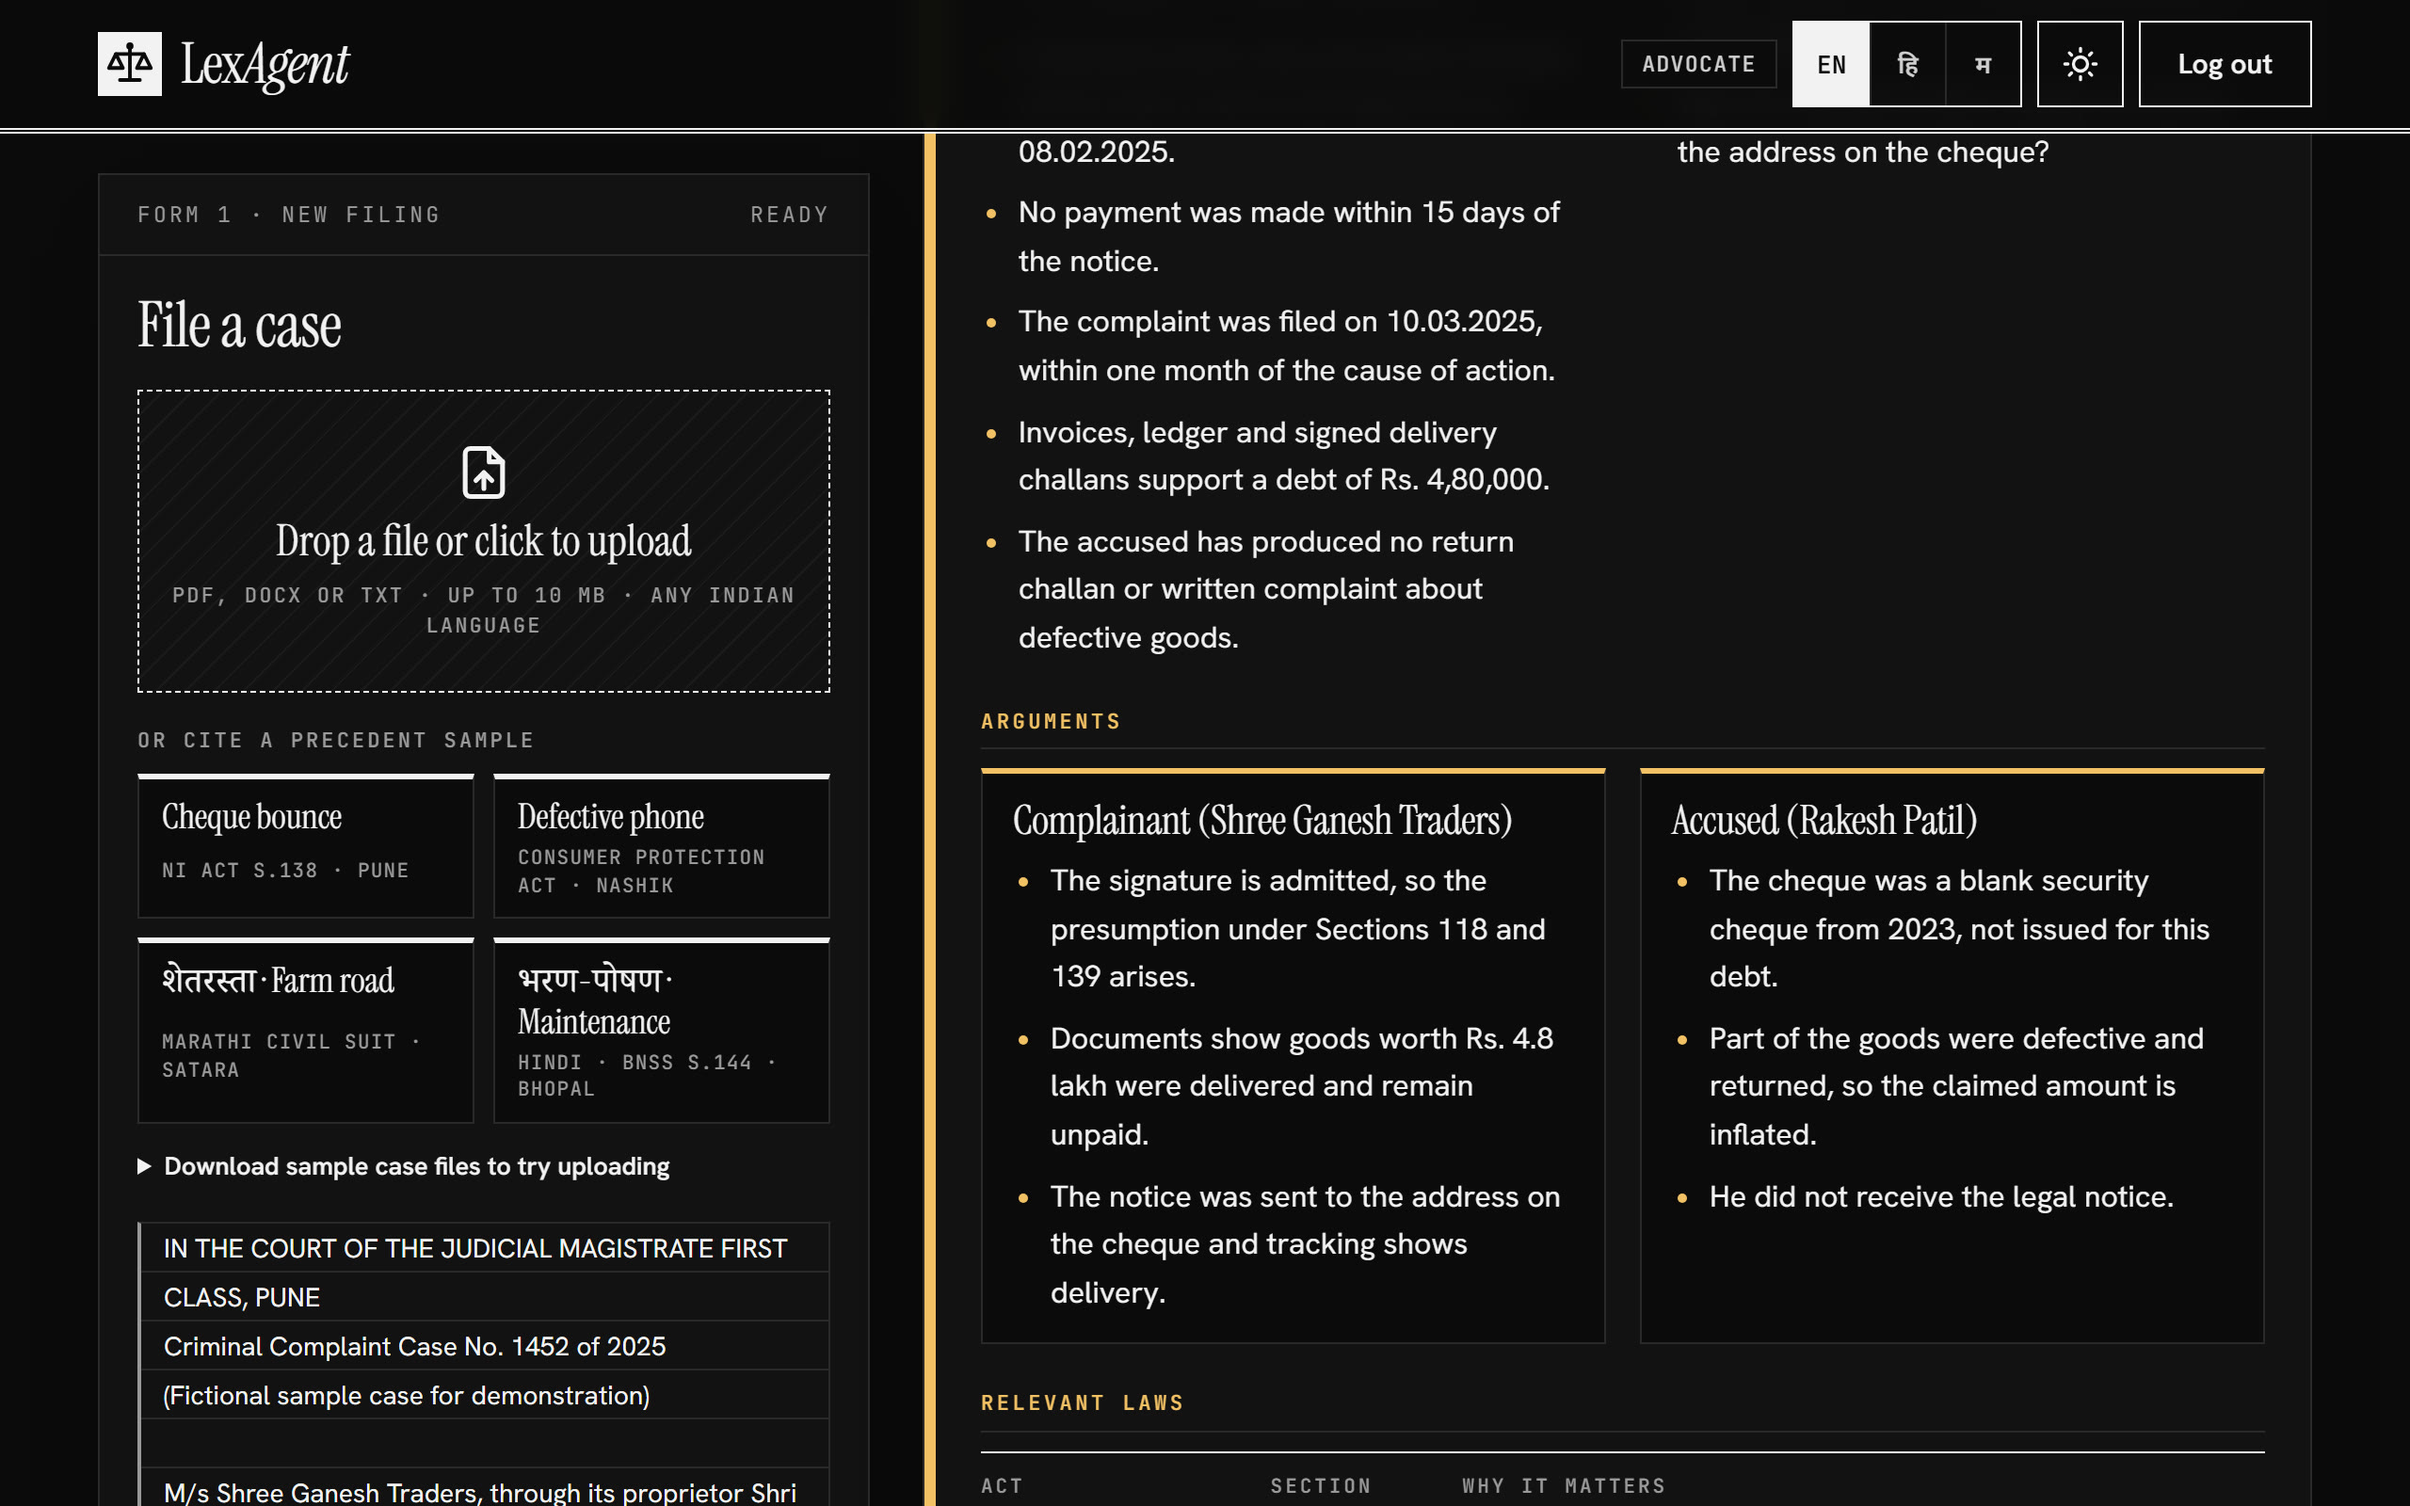
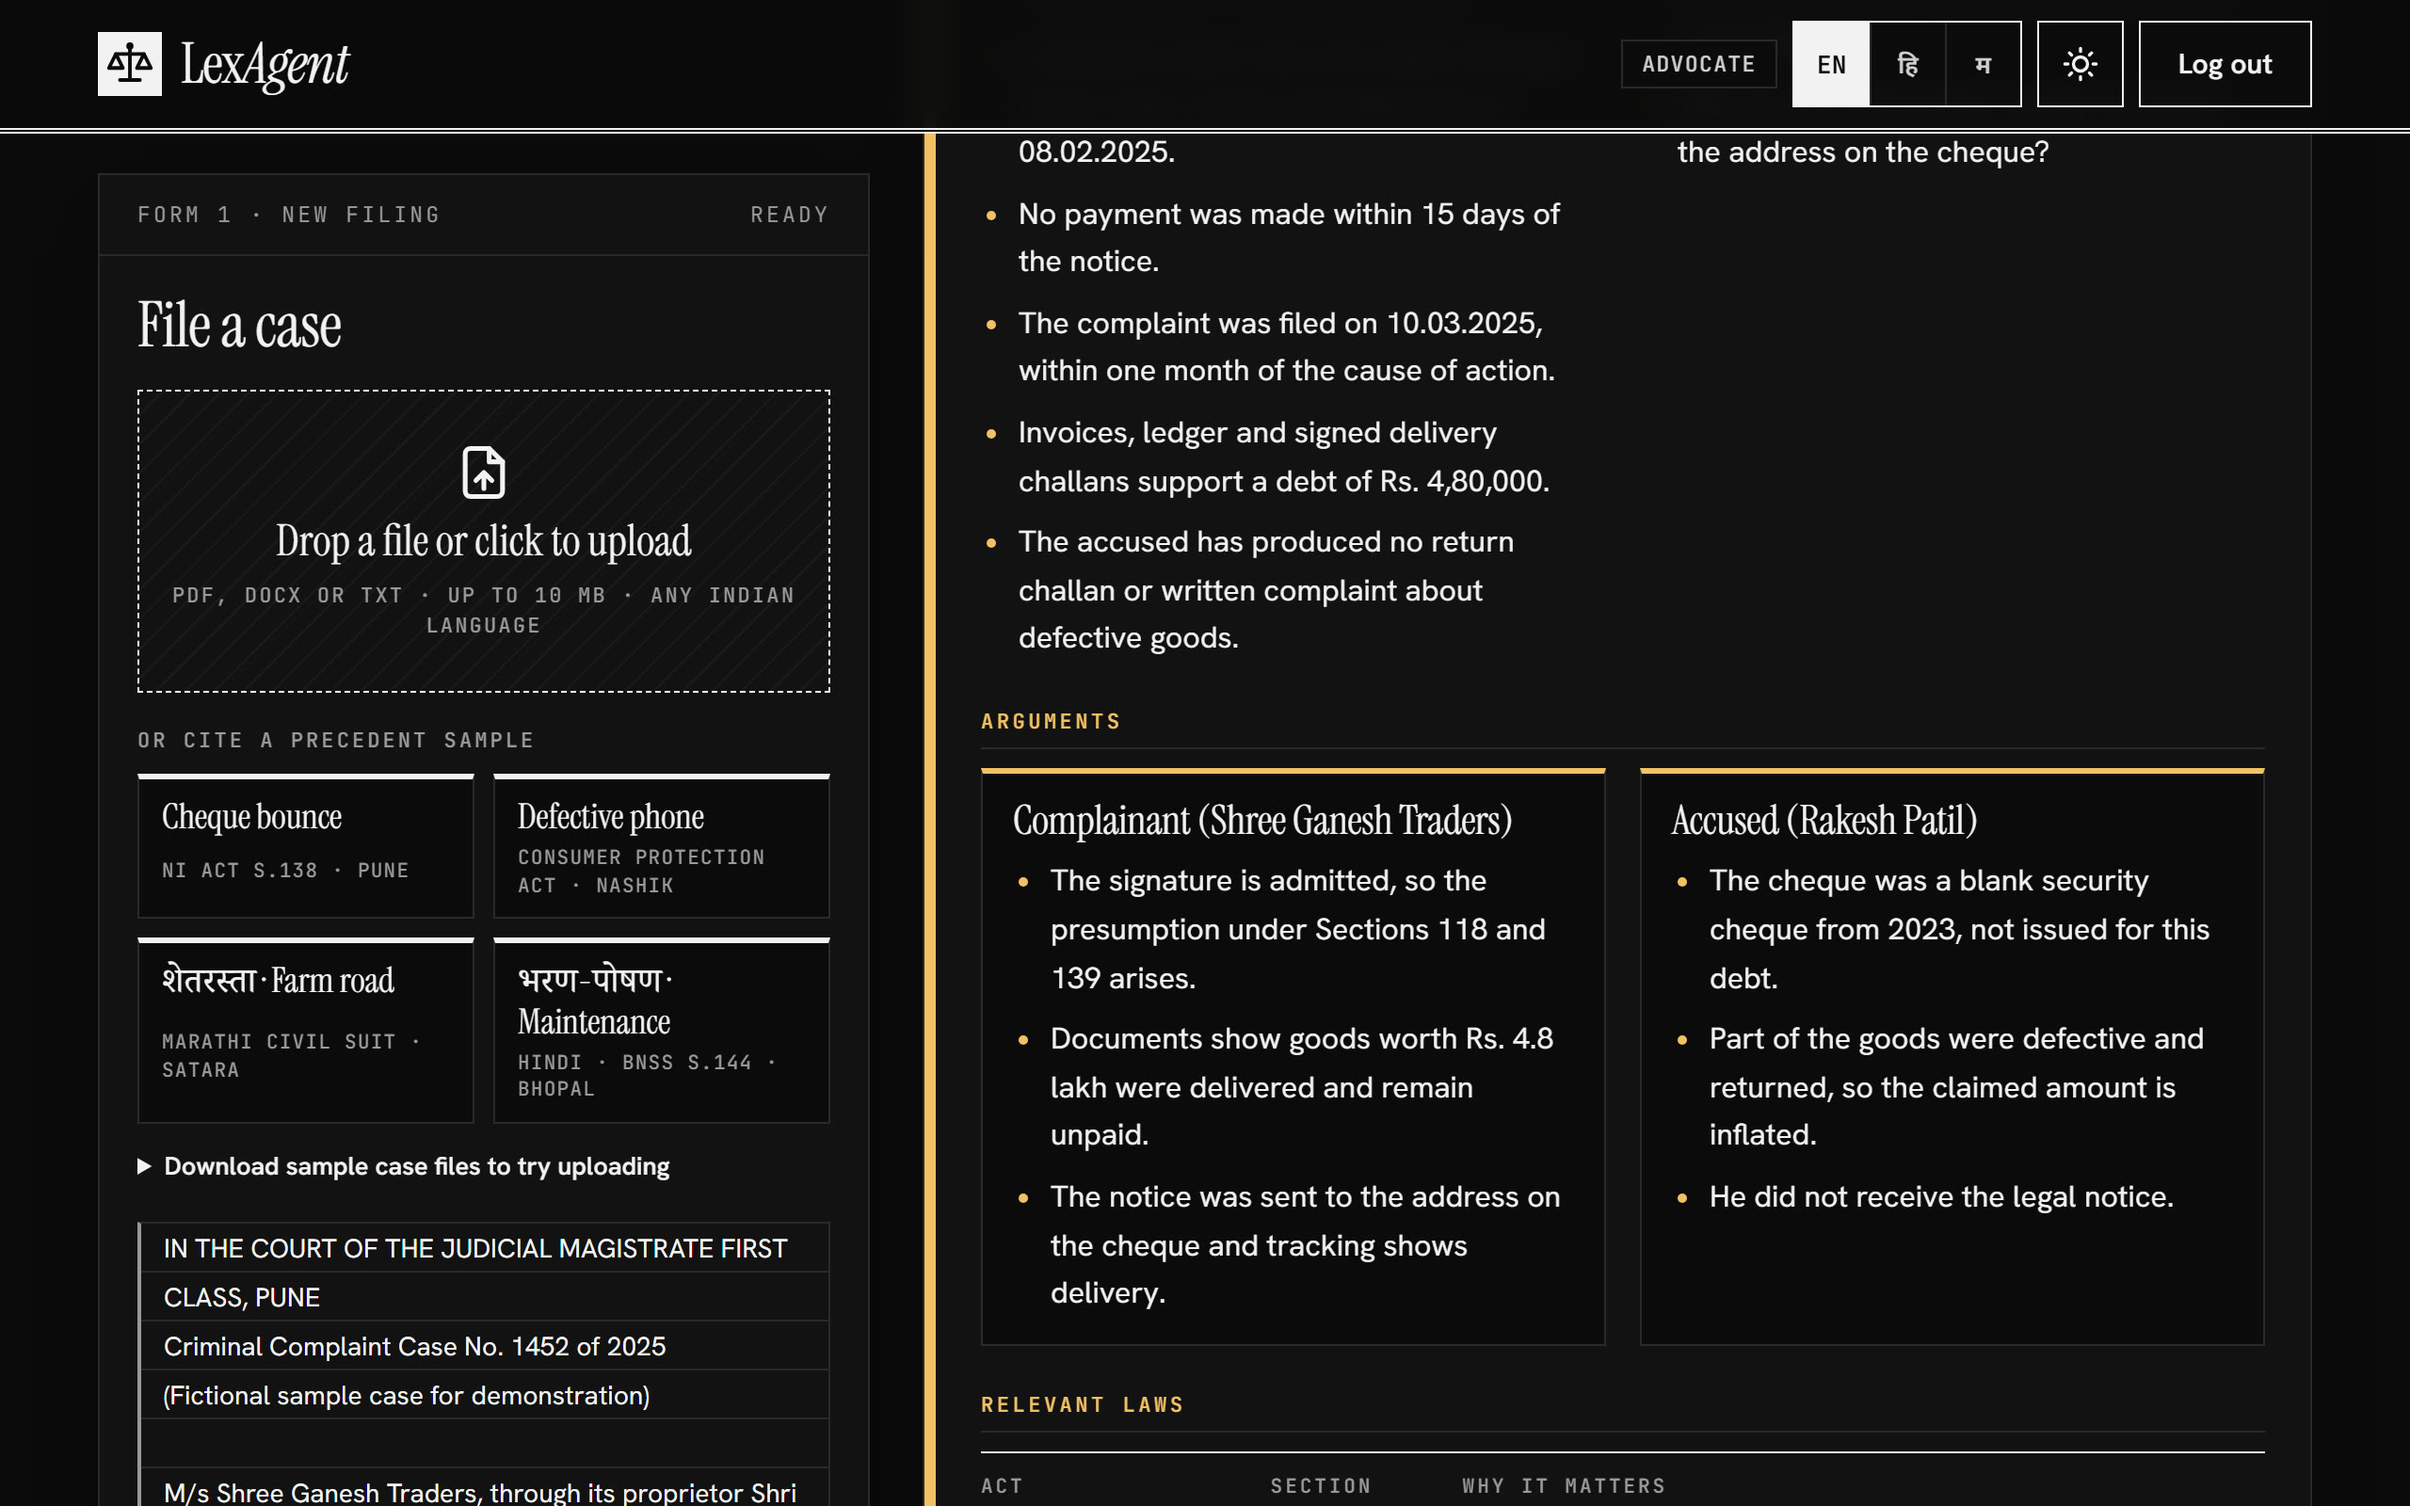
README: English screenshots and badges

diff --git a/README.md b/README.md
@@ -17,10 +17,10 @@
   <img src="https://img.shields.io/badge/Next.js-16-black?logo=nextdotjs" alt="Next.js 16">
   <img src="https://img.shields.io/badge/TypeScript-strict-3178c6?logo=typescript&logoColor=white" alt="TypeScript strict">
   <img src="https://img.shields.io/badge/AI-Mistral_·_Groq_·_Gemini-0b0b0b" alt="Works with Mistral, Groq or Gemini">
-  <img src="https://img.shields.io/badge/languages-English_·_हिन्दी_·_मराठी-444444" alt="English, Hindi and Marathi">
+  <img src="https://img.shields.io/badge/languages-English_·_Hindi_·_Marathi-444444" alt="English, Hindi and Marathi">
   <img src="https://img.shields.io/badge/case_files-any_Indian_language-0b0b0b" alt="Case files in any Indian language">
   <img src="https://img.shields.io/badge/tests-23_passing-2d7d4f" alt="23 tests passing">
-  <img src="https://img.shields.io/badge/OCR-मराठी_·_हिन्दी_·_English-444444" alt="OCR for Marathi, Hindi and English">
+  <img src="https://img.shields.io/badge/OCR-Marathi_·_Hindi_·_English-444444" alt="OCR for Marathi, Hindi and English">
   <img src="https://img.shields.io/badge/law-BNS_·_BNSS_·_BSA-0b0b0b" alt="Knows BNS, BNSS and BSA">
 </p>
 
@@ -45,11 +45,11 @@
 ## 🎬 See it in action
 
 <p align="center">
-  <a href="https://lexagent-ai.vercel.app"><img src="docs/readme/dashboard-marathi.jpg" alt="A Marathi district-court case file uploaded and analysed by the four agents" width="100%"></a>
+  <a href="https://lexagent-ai.vercel.app"><img src="docs/readme/dashboard-hero.jpg" alt="A case file uploaded as a PDF and analysed by the four agents" width="100%"></a>
 </p>
 
 <p align="center"><b>🌐 Try it live: <a href="https://lexagent-ai.vercel.app">lexagent-ai.vercel.app</a></b><br>
-<sub>A Marathi district-court case file, read by the four agents. Sign up, pick a sample case, and press Analyze Case.</sub></p>
+<sub>A bail application uploaded as a PDF and read by the four agents. Sign up, pick a sample case, and press Analyze Case.</sub></p>
 
 ---
 
@@ -196,16 +196,8 @@ Urdu, English or a mix**, in the original, and say which language the document i
 report all follow, whatever language the case file is in. At sign-up you pick who you are, and the agents adjust their
 depth and tone.
 
-<table>
-  <tr>
-    <td width="58%"><img src="docs/readme/landing-hi.jpg" alt="LexAgent landing page in Hindi"></td>
-    <td width="42%"><img src="docs/readme/signup-roles-mr.jpg" alt="Sign-up form in Marathi with the role picker"></td>
-  </tr>
-  <tr>
-    <td align="center"><sub>Landing page in हिन्दी</sub></td>
-    <td align="center"><sub>Sign-up in मराठी with the role picker</sub></td>
-  </tr>
-</table>
+<p align="center"><img src="docs/readme/signup-roles.jpg" alt="Sign-up form with the role picker" width="460"><br>
+<sub>Sign-up with the role picker. The <b>EN · हि · म</b> switch in the header changes the language everywhere.</sub></p>
 
 | Role | How the agents write for you |
 |---|---|
@@ -231,20 +223,18 @@ disclaimer on every page. Hindi and Marathi reports embed a Devanagari font.
 
 <table>
   <tr>
-    <td width="25%"><a href="docs/readme/sample-report.pdf"><img src="docs/readme/report-page-1.png" alt="Report page 1: header, confidence seal, summary and timeline"></a></td>
-    <td width="25%"><a href="docs/readme/sample-report.pdf"><img src="docs/readme/report-page-2.png" alt="Report page 2: legal insights, arguments and laws table"></a></td>
-    <td width="25%"><a href="docs/readme/sample-report.pdf"><img src="docs/readme/report-page-3.png" alt="Report page 3: comparison and final analysis"></a></td>
-    <td width="25%"><a href="docs/readme/sample-report-hi.pdf"><img src="docs/readme/report-hi-page-1.png" alt="Hindi report, page 1"></a></td>
+    <td width="33%"><a href="docs/readme/sample-report.pdf"><img src="docs/readme/report-page-1.png" alt="Report page 1: header, confidence seal, summary and timeline"></a></td>
+    <td width="33%"><a href="docs/readme/sample-report.pdf"><img src="docs/readme/report-page-2.png" alt="Report page 2: legal insights, arguments and laws table"></a></td>
+    <td width="33%"><a href="docs/readme/sample-report.pdf"><img src="docs/readme/report-page-3.png" alt="Report page 3: comparison and final analysis"></a></td>
   </tr>
   <tr>
     <td align="center"><sub>Cover, seal and summary</sub></td>
     <td align="center"><sub>Insights and laws table</sub></td>
     <td align="center"><sub>Cross-check and final analysis</sub></td>
-    <td align="center"><sub>हिन्दी report</sub></td>
   </tr>
 </table>
 
-<p align="center"><a href="docs/readme/sample-report.pdf"><b>📄 Open the English sample report</b></a> · <a href="docs/readme/sample-report-hi.pdf"><b>हिन्दी नमूना रिपोर्ट</b></a></p>
+<p align="center"><a href="docs/readme/sample-report.pdf"><b>📄 Open the sample report</b></a> · <a href="docs/readme/sample-report-hi.pdf">Hindi version (PDF)</a></p>
 
 ---
 
